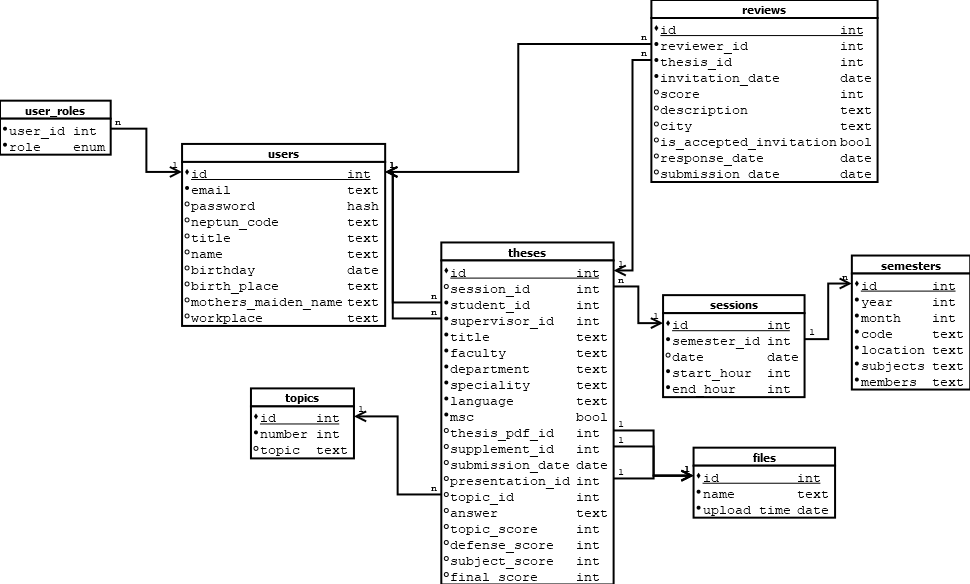
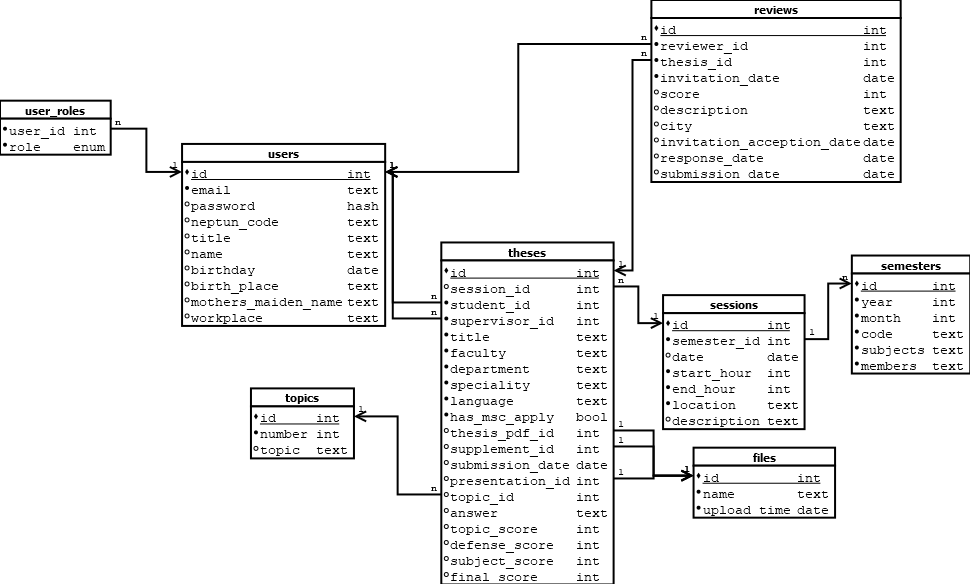
Upload Web_Pages and Datamodell changes

diff --git a/doc/conf.py b/doc/conf.py
@@ -109,6 +109,7 @@ html_sidebars = {
     ]
 }
 
+plantuml = 'java -jar C:/Users/drig6/Szakdolgozat_Demo_Save/docs/chapters/source_codes'
 
 # -- Options for HTMLHelp output ------------------------------------------
 

diff --git a/doc/chapters/02.rst b/doc/chapters/02.rst
@@ -45,12 +45,6 @@ Szerepkörök leírása
 - A bírálók és a bizottság értékeléseinek megtekintése.
 - A végső értékelés és jegy rögzítése a rendszerben.
 
-6. *Záróvizsga tag*:
-
-- Lehetősége van a szakdolgozatok, bírálatok és az összesítő táblázat megtekintéséhez.
-- Hozzáférése van a Záróvizsga létrehozásához.
-- A végső értékelés rögzítése a rendszerben.
-
 
 Folyamat ábrázolása
 -------------------

diff --git a/doc/chapters/Lapok_reszletezese.rst b/doc/chapters/Lapok_reszletezese.rst
@@ -230,3 +230,10 @@ Prezentáció feltöltés (Presentation_Upload)
 .. image:: images/Web_pages/Presentation_Upload.jpg
 
 A Záróvizsgához szükséges prezentáció feltöltés itt történik meg.
+
+Felhasználói adatok módosítása
+------------------------------
+
+.. image:: images/Web_pages/User_Modifiactions.png
+
+A felhasználói adatokat illetve jogosultságokat lehet módosítani ezen a lapon.
